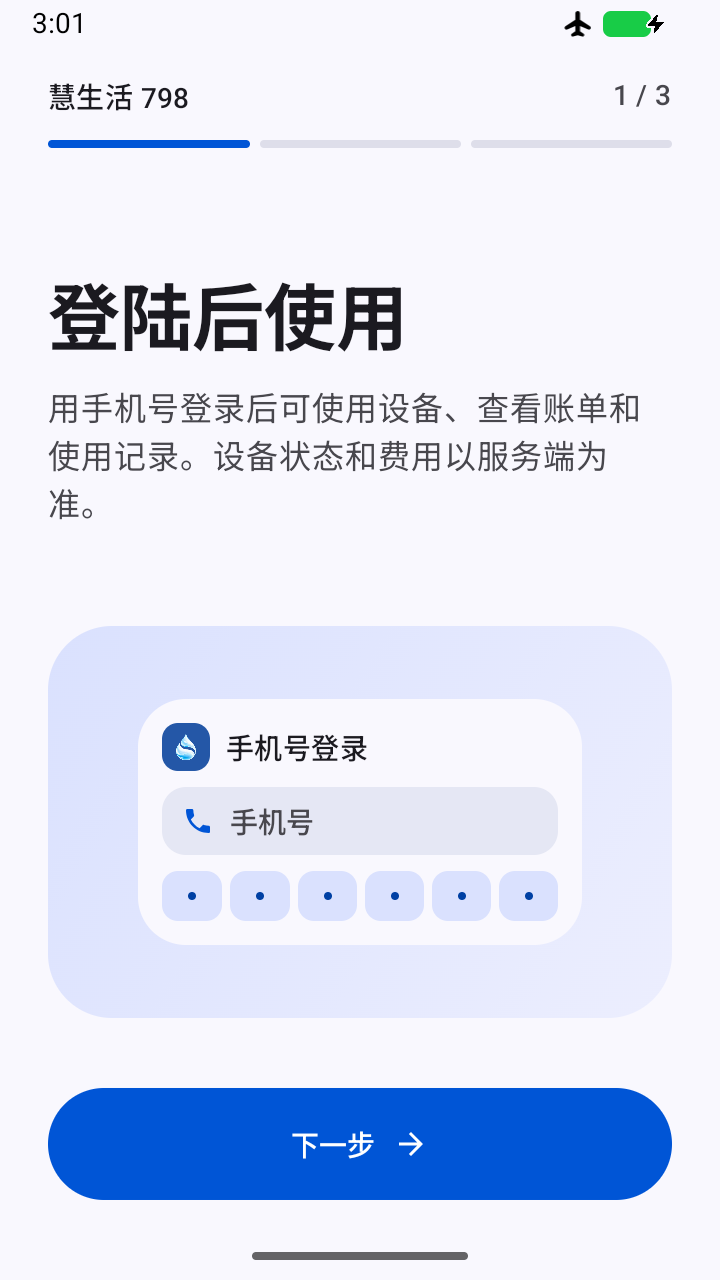
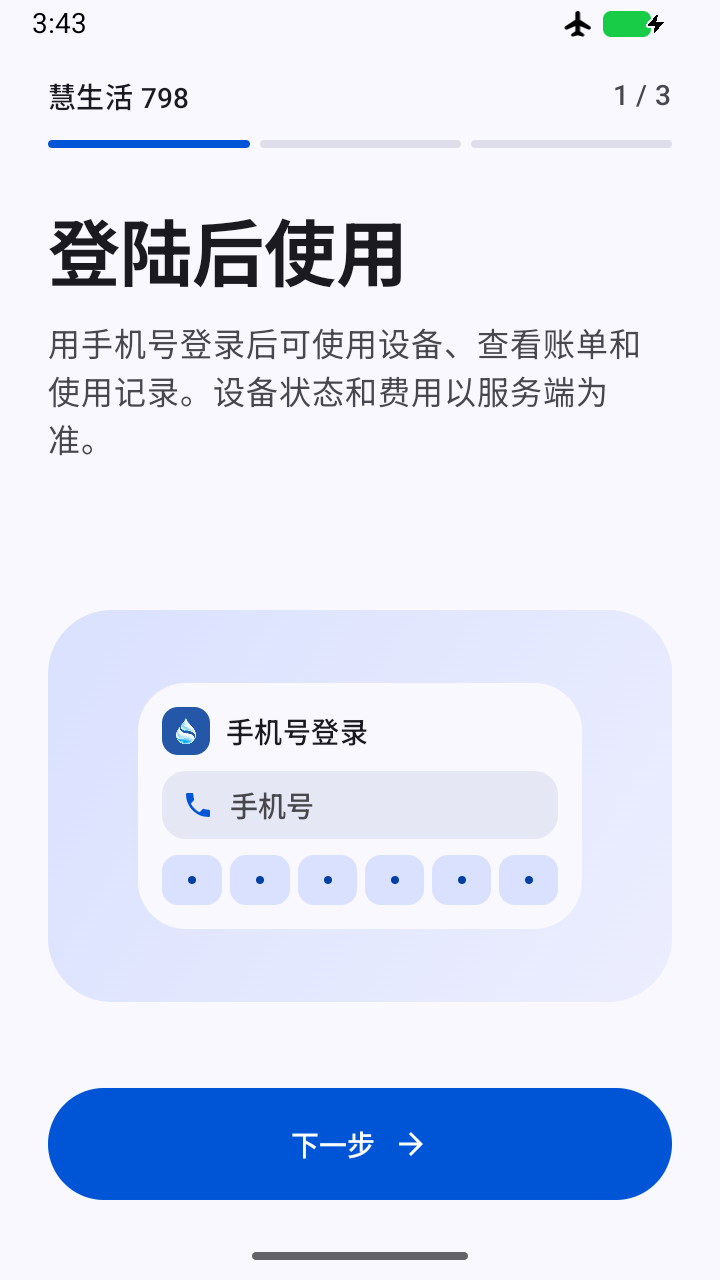
fix(ui): 收紧引导页间距并调整 NFC 提示

diff --git a/SmartLife798/app/src/androidTest/java/com/smartlife798/app/FeatureGuideChecks.kt b/SmartLife798/app/src/androidTest/java/com/smartlife798/app/FeatureGuideChecks.kt
@@ -80,12 +80,13 @@ object FeatureGuideChecks {
                 check(bounds(test, nfc.title).top == welcomeTitle.top)
                 check(bounds(test, nfc.body).top == welcomeBody.top)
                 check(bounds(test, "下一步").top == welcomeAction.top)
-                await(test, "仅支持慧生活 NFC，暂不支持支付宝碰一碰。")
+                check(nfc.body.contains("保持本应用在前台") && nfc.body.contains("暂不支持支付宝碰一碰"))
+                val note = "仅支持慧生活"
+                await(test, note)
                 if (test.targetContext.resources.configuration.fontScale >= 1.6f) {
                     stage = "large text scroll keeps navigation in place"
                     val nextBounds = bounds(test, "下一步")
                     val previousBounds = bounds(test, "上一步")
-                    val note = "仅支持慧生活 NFC，暂不支持支付宝碰一碰。"
                     val noteBounds = bounds(test, note)
                     val x = noteBounds.centerX()
                     val from = (noteBounds.bottom + nextBounds.top) / 2

diff --git a/SmartLife798/app/src/main/java/com/smartlife798/app/core/FeatureGuide.kt b/SmartLife798/app/src/main/java/com/smartlife798/app/core/FeatureGuide.kt
@@ -26,8 +26,8 @@ object FeatureGuide {
         GuideTopic(
             key = "scan-nfc:2",
             title = "碰一碰使用设备",
-            body = "解锁手机，开启 NFC 并打开本应用，再将手机感应区贴近圆形感应贴。使用前请核对设备与费用。",
-            location = "仅支持慧生活 NFC，暂不支持支付宝碰一碰。",
+            body = "解锁手机并开启 NFC，保持本应用在前台。将手机感应区贴近圆形感应贴，使用前核对设备与费用。暂不支持支付宝碰一碰。",
+            location = "仅支持慧生活",
             icon = GuideIcon.SCAN,
         ),
         GuideTopic(

diff --git a/SmartLife798/app/src/main/java/com/smartlife798/app/ui/FeatureGuideScreen.kt b/SmartLife798/app/src/main/java/com/smartlife798/app/ui/FeatureGuideScreen.kt
@@ -133,7 +133,7 @@ fun FeatureGuideScreen(
                     val copySlots = measureGuideCopy(topics, constraints.maxWidth)
                     Column(
                         Modifier.fillMaxSize().verticalScroll(rememberScrollState())
-                            .padding(top = if (compact) 20.dp else 48.dp, bottom = 12.dp),
+                            .padding(top = 16.dp, bottom = 12.dp),
                         verticalArrangement = Arrangement.spacedBy(if (compact) 16.dp else 22.dp),
                     ) {
                         GuideCopy(topics[index], copySlots)

diff --git a/docs/02-功能设计与UI方案.md b/docs/02-功能设计与UI方案.md
@@ -376,9 +376,9 @@ App
 | 深色首页 | [dark.png](../screenshots/dark.png) | 2.2.15 / 95 离线开发构建，API 36.1，默认字号 |
 | 深色外观 | [appearance_dark.png](../screenshots/appearance_dark.png) | 本次样式开发构建 2.1.2 / 70，API 28，深色更新按钮与选项层级 |
 | 深色支付面板 | [payment_dark.png](../screenshots/payment_dark.png) | 2.1.1，未提交付款 |
-| 首次使用 | [guide-first.png](../screenshots/guide-first.png) | 2.3.1 / 97，API 36.1 独立离线包，三步引导的首屏 |
-| 深色引导 | [guide-replay-dark.png](../screenshots/guide-replay-dark.png) | 2.3.1 / 97，API 36.1 独立离线包，深色主动重看 |
-| 更新引导 | [guide-update.png](../screenshots/guide-update.png) | 2.3.1 / 97，API 36.1 独立离线包，旧安装迁移后展示未读内容 |
+| 首次使用 | [guide-first.png](../screenshots/guide-first.png) | 2.3.2 / 98，API 36.1 独立离线包，三步引导的首屏 |
+| 深色引导 | [guide-replay-dark.png](../screenshots/guide-replay-dark.png) | 2.3.2 / 98，API 36.1 独立离线包，深色主动重看 |
+| 更新引导 | [guide-update.png](../screenshots/guide-update.png) | 2.3.2 / 98，API 36.1 独立离线包，旧安装迁移后展示未读内容 |
 | 开发者工具 | [developer-tools.png](../screenshots/developer-tools.png) | 2.1.1，重置入口与诊断分组 |
 | 扫码 | [scan.png](../screenshots/scan.png) | 2.1.1 虚拟相机，未扫描真实设备 |
 | 手动输入 | [manual.png](../screenshots/manual.png) | 2.1.1，未提交真实编号 |
@@ -405,7 +405,7 @@ App
 
 ## 首次使用与功能指南
 
-首次安装、版本新增和主动重看共用 `FeatureGuideScreen`。顶部显示步数和分段进度，三步分别展示手机号登录界面示意、圆形 NFC 感应贴及首页和设备页选项。第二步明确提示暂不支持支付宝碰一碰。标题、正文和图示按当前屏宽和字号预留统一位置，切换步骤时原位淡入淡出。小屏或大字时中间内容可滚动，底部「上一步」和主操作始终可见。全屏引导窗口及返回页面的系统栏图标跟随当前主题。
+首次安装、版本新增和主动重看共用 `FeatureGuideScreen`。顶部显示步数和分段进度，三步分别展示手机号登录界面示意、圆形 NFC 感应贴及首页和设备页选项。进度条下方使用统一间距。第二步正文说明须保持应用在前台，暂不支持支付宝碰一碰，蓝色提示为「仅支持慧生活」。标题、正文和图示按当前屏宽和字号预留统一位置，切换步骤时原位淡入淡出。小屏或大字时中间内容可滚动，底部「上一步」和主操作始终可见。全屏引导窗口及返回页面的系统栏图标跟随当前主题。
 
 引导动画遵循系统动画时长设置。此次排版和文案调整沿用修订 2 的已读键，已有安装继续展示尚未读过的步骤。
 

diff --git a/README.md b/README.md
@@ -6,7 +6,7 @@
 |---|---|
 | 正式版包名 | `com.smartlife798.app` |
 | Beta 版包名 | `com.smartlife798.app.debug` |
-| 当前版本 | `2.3.1`（`versionCode 97`） |
+| 当前版本 | `2.3.2`（`versionCode 98`） |
 | 技术栈 | Kotlin 2.2 · Jetpack Compose (Material 3 Expressive) · OkHttp · CameraX + ML Kit · Alipay SDK |
 | 最低版本 | Android 7.0（API 24） |
 | 正式发布 | [最新 Release](https://github.com/wu-shanglin/Smartlife798/releases/latest) |
@@ -15,7 +15,7 @@
 
 ## 当前版本
 
-**2.3.1 / 97**（开发候选）对齐三步引导的标题、正文和图示，更新手机号登录和圆形 NFC 感应贴图示。
+**2.3.2 / 98**（开发候选）收紧引导页标题上方留白，调整 NFC 使用说明。
 
 **2.1.11 / 79** 适配原版 3.1.10 短信登录签名，补齐登录请求的 `sign` 参数。签名通过原版合成向量及离线登录验证，真实账号验收待完成。详见 [登录签名](docs/01-逆向分析报告.md#51-登录与账号)。
 
@@ -49,13 +49,13 @@
 
 ## 构建与产物
 
-2.3.1 为开发候选版本，日常试装使用独立 Debug 包。
+2.3.2 为开发候选版本，日常试装使用独立 Debug 包。
 
 唯一 Android 工程为 `SmartLife798/`；先按 [构建与运行](docs/03-技术方案与开发计划.md#4-构建与运行) 准备 JDK/SDK、本机 `local.properties`，再按 [检查与证据](docs/06-工程规范与路线图.md#2-检查与证据) 执行适用检查。release 签名及产物准备见 [版本与发布](docs/06-工程规范与路线图.md#3-版本与发布)。
 
 | 本地构建 | 文件 |
 |---|---|
-| 产物 | [`dist/SmartLife798-2.3.1-release.apk`](dist/SmartLife798-2.3.1-release.apk) |
+| 产物 | [`dist/SmartLife798-2.3.2-release.apk`](dist/SmartLife798-2.3.2-release.apk) |
 
 日常试装使用 `SmartLife798/app/build/outputs/apk/debug/app-debug.apk`。桌面的「慧生活 798 Beta 版」可与正式版并存，分别保存应用数据。上表是正式发布时的产物路径，只有明确授权打包 Release 并发布后才生成。
 

diff --git a/CHANGELOG.md b/CHANGELOG.md
@@ -7,6 +7,7 @@
 
 ## [Unreleased]
 
+- 同步收紧顶部留白后的三张引导截图。
 - 更新引导截图与三步切换的位置回归。
 - 更新首次使用、深色重看与更新引导的离线截图。
 - 更新浅色和深色首页截图。
@@ -42,6 +43,12 @@
 - 核对 2.1.10 正式发布及公开更新附件。
 
 - 任务分支完成后同步清理已合并且不再使用的本地和远端分支。
+
+## [2.3.2] - 2026-11-13
+
+> Debug 开发候选。
+
+- 缩小并统一引导页进度条与标题的间距。NFC 正文补充保持应用在前台和暂不支持支付宝碰一碰的说明，蓝色提示精简为「仅支持慧生活」。
 
 ## [2.3.1] - 2026-11-13
 
